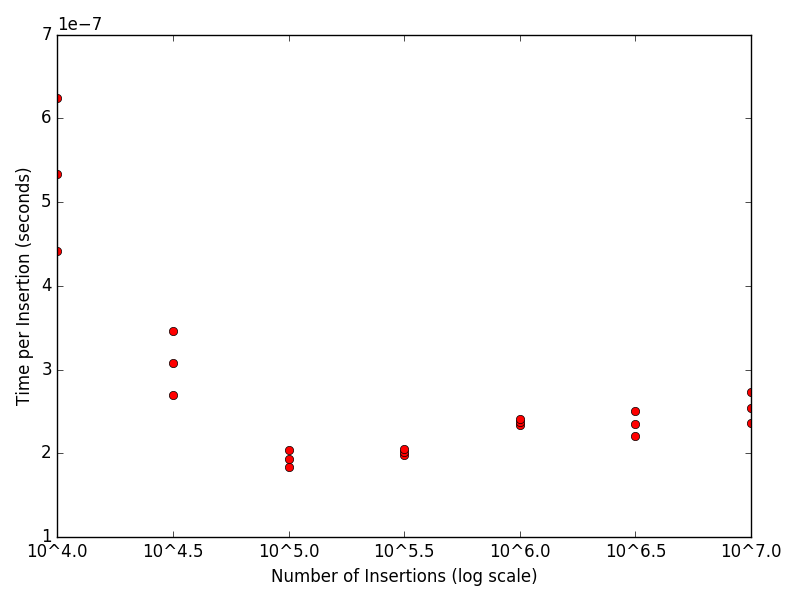
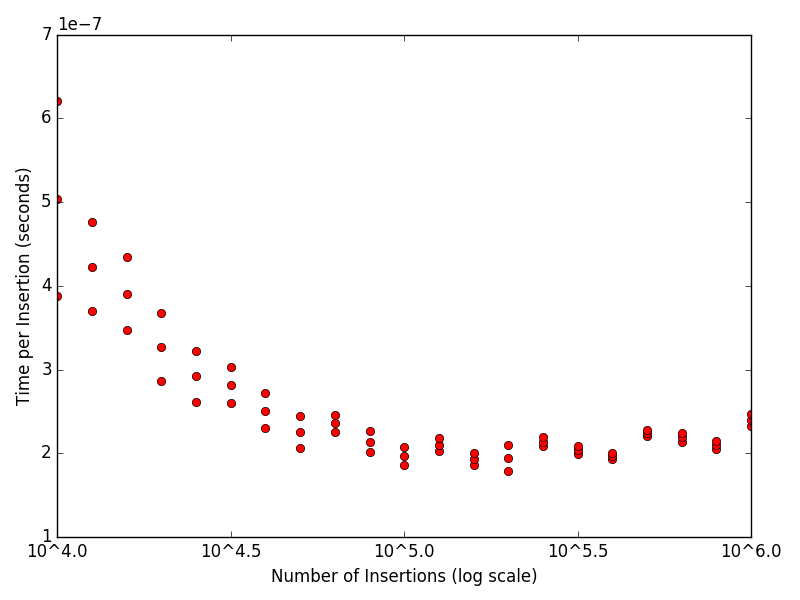
Optimized C++ and made rust higher resolution.  Still running to get the rest of the datapoints

diff --git a/driver.py b/driver.py
@@ -8,11 +8,12 @@ import timeit
 from collections import namedtuple
 import statistics
 from math import log
+import numpy as np
 import matplotlib.pyplot as plt
 
 ResultRow = namedtuple("ResultRow", ["executable", "size", "low", "mid", "high"])
 
-SIZES = [4.0, 4.5, 5.0, 5.5, 6.0, 6.5, 7.0] #, 7.5]
+SIZES = list(np.arange(4.0, 7.5, 0.1))
 
 def test_executable(name, execution_list):
     """
@@ -22,7 +23,7 @@ def test_executable(name, execution_list):
     """
     ret = []
     print("Testing: %s" % (name,))
-    print("%s, %s, %s, %s" % ("dataset size", "20th P", "50th P", "80th P"))
+    print("%s, %s, %s, %s" % ("dataset size", "x-SD", "mean", "x+SD"))
     for size_power in SIZES:
         times = []
         for _ in range(15):
@@ -61,7 +62,9 @@ def render_plot(name, data):
 
         plt.plot([x_val, x_val, x_val], [y_low, y_med, y_high], "ro")
 
-    plt.xticks(SIZES, ["10^" + str(size) for size in SIZES])
+    ticks = [size for size in SIZES if str(size)[-1] in ['0', '5']]
+
+    plt.xticks(ticks, ["10^" + str(tick) for tick in ticks])
     plt.xlabel("Number of Insertions (log scale)")
     plt.ylabel("Time per Insertion (seconds)")
     plt.tight_layout()

diff --git a/README.md b/README.md
@@ -24,11 +24,21 @@ For details, check out https://docs.oracle.com/javase/7/docs/api/java/util/HashM
 
 The standard go map structure uses a hash table with incremental bucket migration.  Here's a well-documented bit of source code: https://golang.org/src/runtime/hashmap.go.
 
+### Python dictionary
+
+Python's dictionaries are actually implemented with a pretty basic hashmap.  Yes, that's right, the primative `{}` is a hash map.  Guido is very invested in this constant-time conspiracy.  
+
+### Rust
+
+Rust's standard library comes with `stl::collections::HashMap` as a hash map implementation.  When I first tried rust, I saw terrible performance that seems to be big Oh of sin(N) which doesn't make any sense.  Since then, I re-tried it by building with `cargo build --release` and found that the performance became extraordinary.  Rust and go both have fantastically fast hashmaps in the standard libraries.  
+
 ## Results
 
-This is what `driver.py` outputted when run on my intel quad core 2.4GHz i5-6300U CPU with 12GB of mempory running ubuntu 16.04.  There will be graphs below.
+This is what `driver.py` outputted when run on my intel quad core 2.4GHz i5-6300U CPU with 12GB of memory running ubuntu 16.04.  There will be graphs below.
 
-Please do not use these numbres to compare languages.  I'm not posting this data so that someone can claim that rust is faster than go, but so that we can observe the trends in time-per-operation as the sizes of the dataset grows across different implementations.  
+Please do not use these numbers to compare languages.  I'm not posting this data so that someone can claim that rust is faster than go, but so that we can observe the trends in time-per-operation as the sizes of the dataset grows across different implementations.  
+
+For the graphs below, you'll notice that the smaller data-sets take a huge amount of time to insert per element.  This is almost certainly because of the overhead of starting the process and loading the code into memory.   This is especially true of the java.util.HashMap benchmark which has to load up the entirety of the JVM before it can even begin to execute main (I'm kidding of course).
 
 Testing: go
 dataset size, 20th P, 50th P, 80th P
@@ -78,7 +88,10 @@ dataset size, 20th P, 50th P, 80th P
 
 ### cpp std::unordered_map
 
+This is my favorite graph because it's the only one that demonstrates my point.  You should notice that in the long run, it looks like this data is linear.  One might be tempted to call this insertion operation big Oh of N, but don't forget that the x axis is logarithmatized.  I haven't thought through this yet but I'll make some helpful graphs tonight to help explain what graphs look like as you change the axes.
+
 ![graph for c++](/cpp.png?raw=true "C++ Performance")
+
 
 ### go
 
